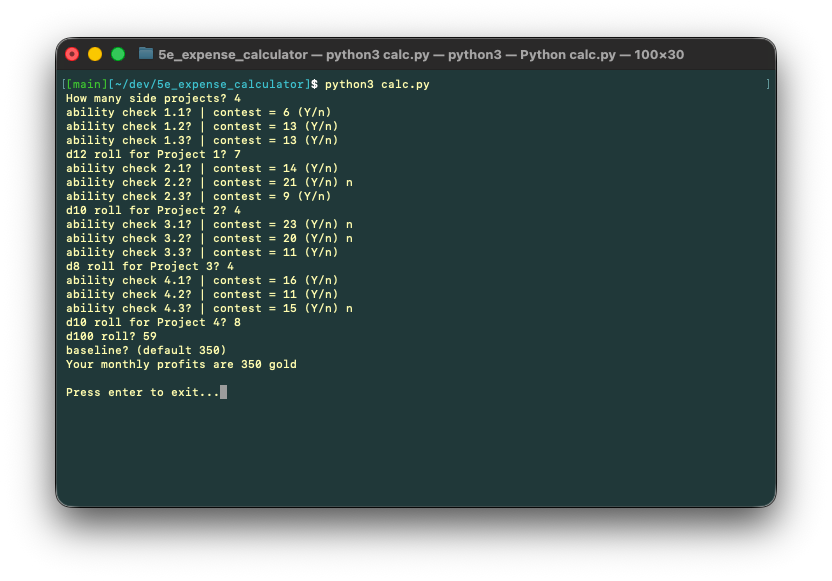
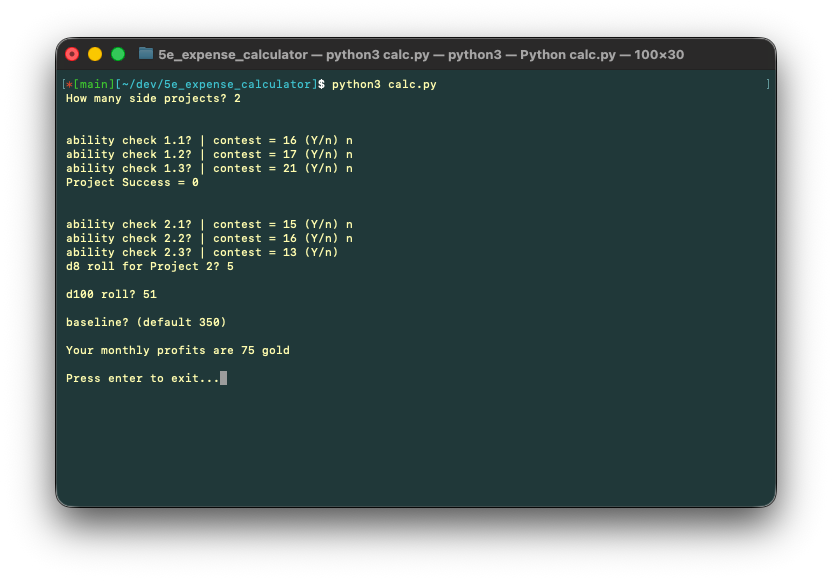
Enhance output formatting in calculate function and update input prompts for clarity

diff --git a/calc.py b/calc.py
@@ -13,6 +13,7 @@ def calculate():
 
     for project in range(n):
         projectSuccess = 0
+        print("\n")
         for skill in range(3): # Each project has 3 ability checks
             roll_input = ""
             contest = random.randint(1, 10) + random.randint(1, 10) + 4
@@ -34,8 +35,6 @@ def calculate():
         if projectSuccess >= 1:
             if verbose:
                 print(f"{projectSuccess} successes = 1d{6 + (projectSuccess * 2)}")
-        else:
-            break
 
         if projectSuccess == 1:
             while True:
@@ -65,12 +64,12 @@ def calculate():
         print(f"modifier = {modifier}")
 
     while True:
-        d100 = int(input("d100 roll? "))
+        d100 = int(input("\nd100 roll? "))
         if 1 <= d100 <= 100: # Valid d100 range
             break
         print("Roll must be between 1 and 100") # Rejects anything out of range
 
-    baseline_input = input("baseline? (default 350) ") 
+    baseline_input = input("\nbaseline? (default 350) ") 
     if baseline_input: # Only overwrites the value if a number is entered, skips if you just hit enter
         baseline = int(baseline_input)
 
@@ -89,9 +88,9 @@ def calculate():
     result = round(result /25) * 25 # Round to the nearest 25
 
     if result >= 0:
-        print(f"Your monthly profits are {result} gold")
+        print(f"\nYour monthly profits are {result} gold")
     else:
-        print(f"Your monthly expenses are ({result}) gold")
+        print(f"\nYour monthly expenses are ({result}) gold")
 
     input("\nPress enter to exit...")
 
